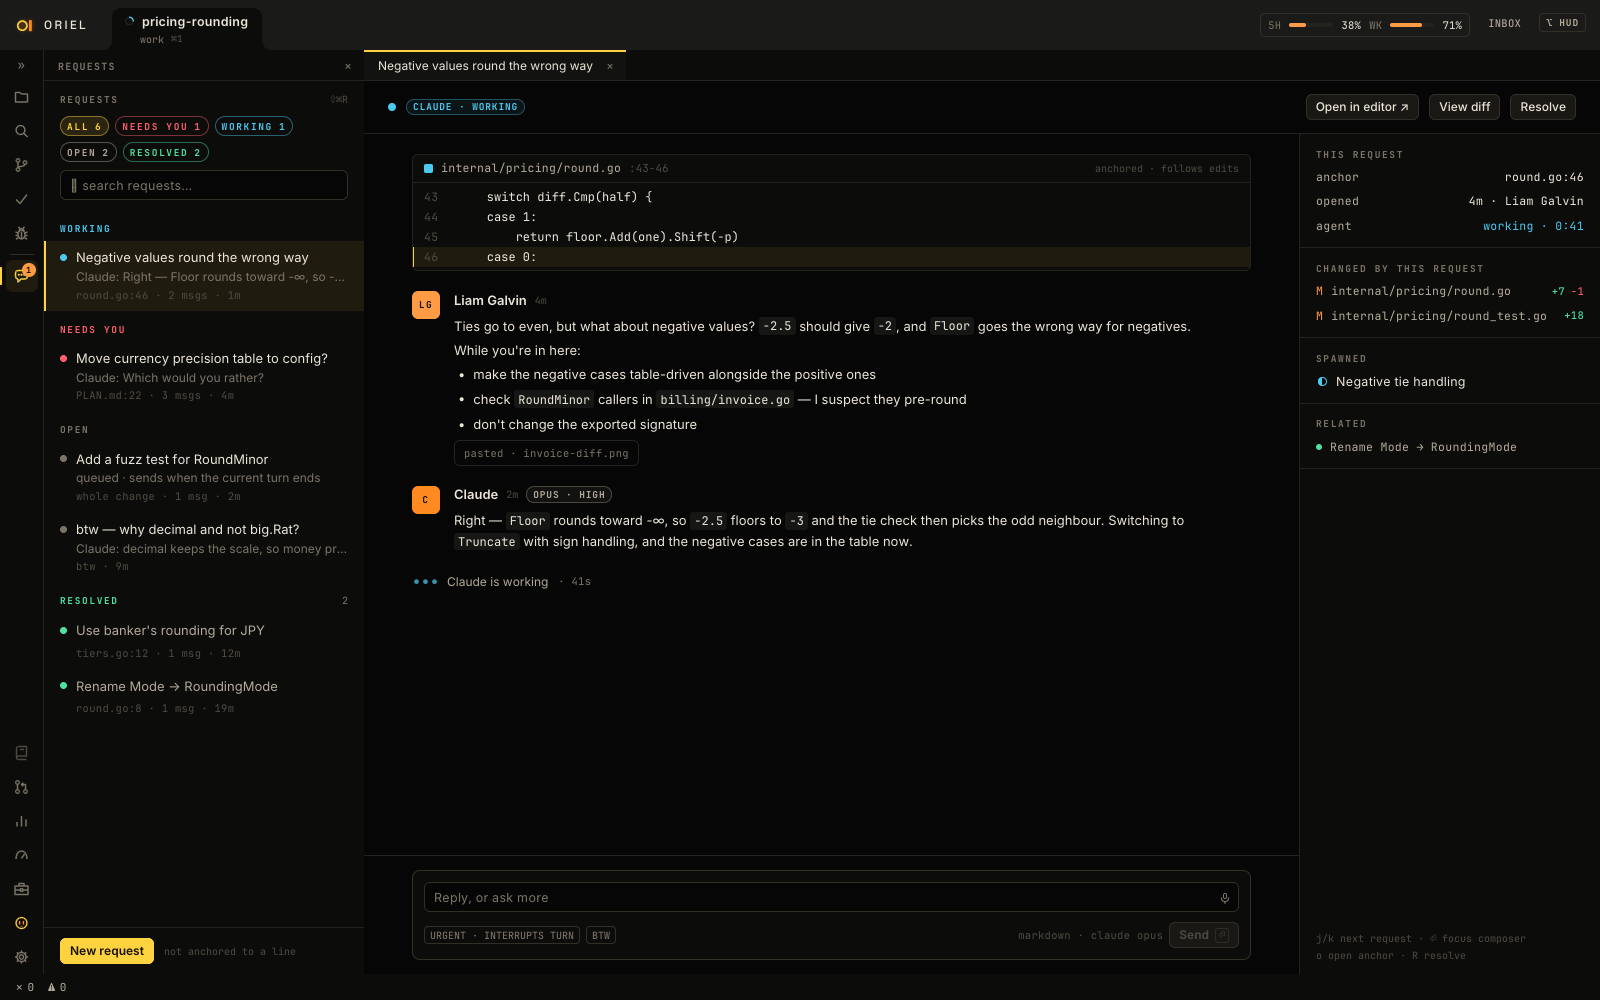
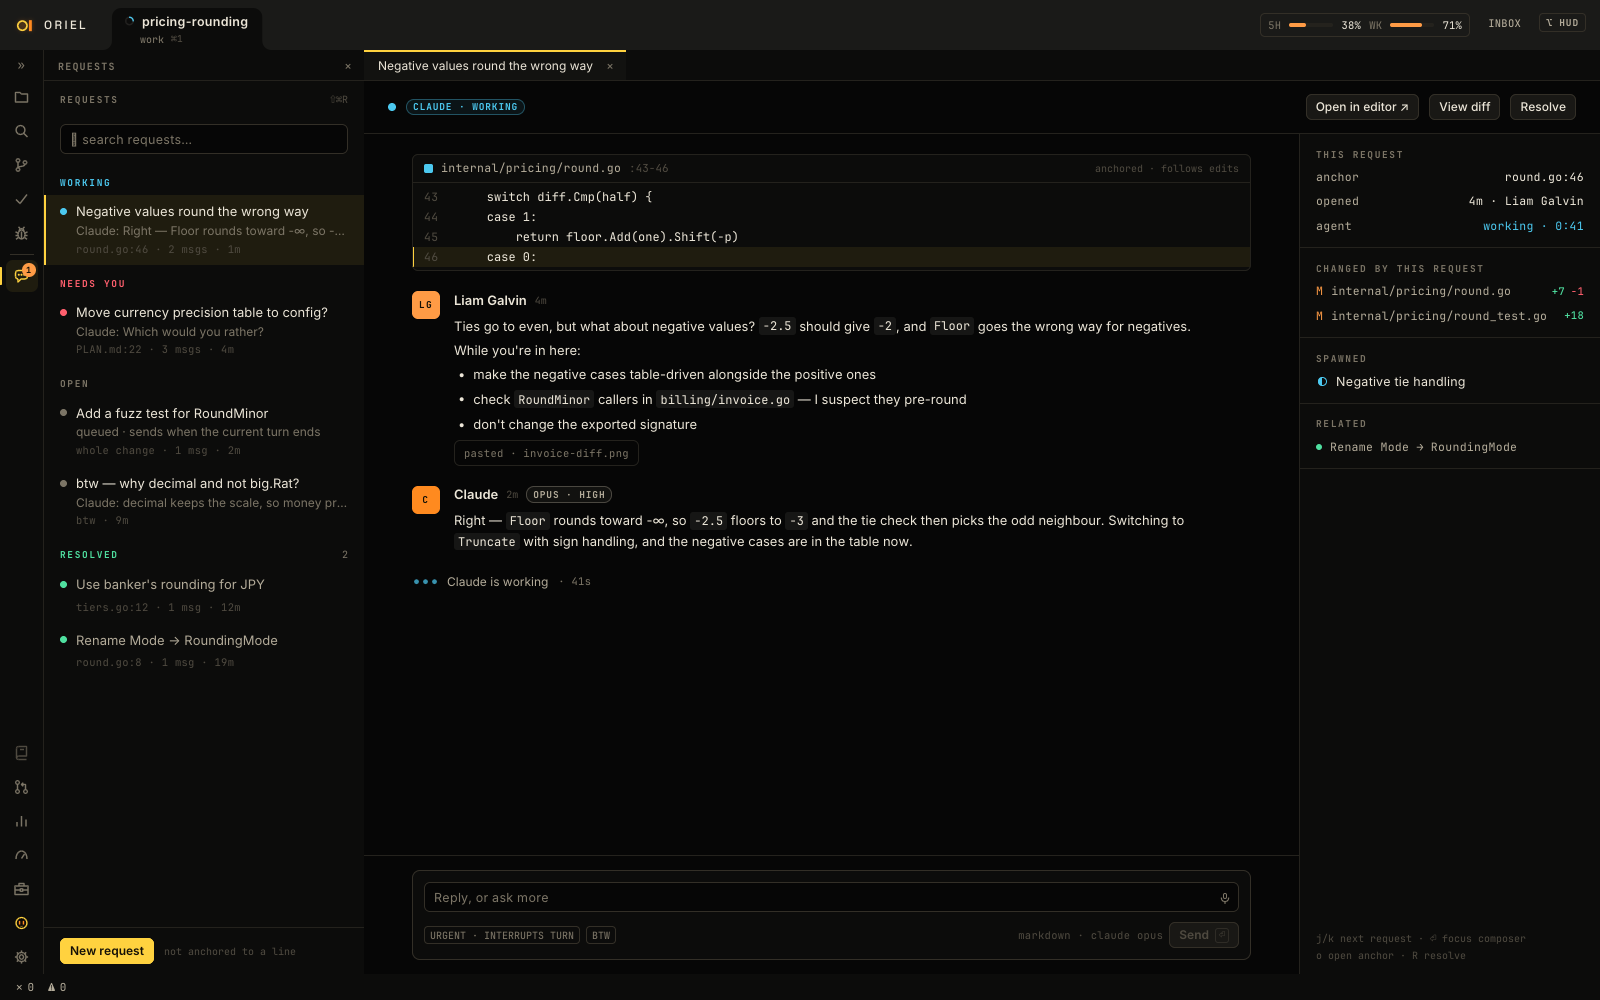
feat(requests): no filter chips over the list; its groups and search are enough

Changed region(s): [[0.0312, 0.093, 0.2188, 0.713]]

diff --git a/app/agentui/requestsview.go b/app/agentui/requestsview.go
@@ -66,7 +66,6 @@ func (x *Requests) listView(c *ui.Ctx, vc uireg.ViewCtx) {
 				c.Text("keys", k, kit.MonoFont(10, th.C(theme.FgGhost)))
 			}
 		})
-		x.filters(c, se, st, vc.Width)
 		c.Box("search", ui.Style{W: ui.Flex(1), Pad: ui.Insets{L: 16, R: 16, T: 8, B: 10}}, func(c *ui.Ctx) {
 			widget.Input(c, "q", &st.query, widget.InputOpts{Label: "Search requests", Placeholder: "⌕ search requests…", Help: "agent/requests#search"})
 		})
@@ -119,59 +118,6 @@ func (x *Requests) listView(c *ui.Ctx, vc uireg.ViewCtx) {
 			}
 			c.Text("note", note, kit.MonoFont(10, th.C(theme.FgGhost)))
 		})
-	})
-}
-
-// filters are the list's chips: All and each group, with counts; one is on.
-func (x *Requests) filters(c *ui.Ctx, se core.SessionState, st *requestsState, width float32) {
-	th := c.Theme()
-	counts := make([]int, len(filterGroups))
-	for _, t := range se.Threads {
-		counts[0]++
-		for i, g := range filterGroups {
-			if i > 0 && int(kit.GroupOf(t)) == g {
-				counts[i]++
-			}
-		}
-	}
-	labels := []string{"all", "needs you", "working", "open", "resolved"}
-	tones := []theme.TokenID{theme.Accent, theme.StatusNeedsYou, theme.StatusWorking, theme.FgMuted, theme.StatusQuiet}
-	if r, ok := c.Rect(c.Next("filters")); ok {
-		width = r.Dx()
-	}
-	font := kit.KickerFont(render.Color{}).Font
-	var rows [][]int
-	w := float32(0)
-	for i, l := range labels {
-		n := c.Shaper().Shape(strings.ToUpper(l), font).Advance + c.Shaper().Shape(fmt.Sprint(counts[i]), font).Advance + 22
-		if len(rows) == 0 || w+n > max(width-32, 160) {
-			rows = append(rows, nil)
-			w = 0
-		}
-		rows[len(rows)-1] = append(rows[len(rows)-1], i)
-		w += n + 6
-	}
-	c.Column("filters", ui.Style{W: ui.Flex(1), Pad: ui.PadXY(16, 0), Gap: 6}, func(c *ui.Ctx) {
-		for r, row := range rows {
-			c.Row(r, ui.Style{Gap: 6}, func(c *ui.Ctx) {
-				for _, i := range row {
-					on := st.filter == i
-					tone := th.C(tones[i])
-					fill := render.Color{}
-					if on {
-						fill = theme.WithAlpha(tone, .12)
-					}
-					if widget.Clickable(c, i, ui.Style{Dir: ui.Row, H: ui.Px(20), Pad: ui.PadXY(7, 0), Gap: 6, Cross: ui.Center, Radius: 10,
-						Stroke: theme.WithAlpha(tone, .45), Border: 1, Fill: fill, Selected: on, Focusable: true, Label: labels[i],
-						Help: "agent/requests#filters"}, func(c *ui.Ctx) {
-						c.Text("l", strings.ToUpper(labels[i]), kit.KickerFont(tone))
-						c.Text("n", fmt.Sprint(counts[i]), kit.KickerFont(tone))
-					}).Clicked {
-						st.filter = i
-					}
-				}
-			})
-		}
 	})
 }
 

diff --git a/app/agentui/requests.go b/app/agentui/requests.go
@@ -105,12 +105,11 @@ func (a attachment) label() string {
 // newKey is the draft of a request not yet sent.
 const newKey = ""
 
-// requestsState is one session's requests: what's selected, filtered and being written.
+// requestsState is one session's requests: what's selected, searched for and being written.
 type requestsState struct {
 	sel       core.ThreadID
 	writing   bool // the new request's composer is showing, not a thread
 	newAnchor *core.Anchor
-	filter    int
 	query     string
 	drafts    map[core.ThreadID]*draft
 	awaiting  string // a new request's body, sent, to select once its thread arrives
@@ -337,14 +336,11 @@ func (x *Requests) target(st *requestsState) core.ThreadID {
 	return st.sel
 }
 
-// visible are the session's requests in the list's order, filtered: by group, then the latest first.
+// visible are the session's requests in the list's order, as searched: by group, then the latest first.
 func (x *Requests) visible(se core.SessionState, st *requestsState) []core.Thread {
 	var out []core.Thread
 	q := strings.ToLower(strings.TrimSpace(st.query))
 	for _, t := range se.Threads {
-		if st.filter > 0 && int(kit.GroupOf(t)) != filterGroups[st.filter] {
-			continue
-		}
 		if q != "" && !strings.Contains(strings.ToLower(t.Heading()), q) && !slices.ContainsFunc(t.Comments, func(c core.Comment) bool {
 			return strings.Contains(strings.ToLower(c.Body), q)
 		}) {
@@ -357,9 +353,6 @@ func (x *Requests) visible(se core.SessionState, st *requestsState) []core.Threa
 	})
 	return out
 }
-
-// filterGroups are the filter chips' groups, after All.
-var filterGroups = []int{-1, int(kit.GroupNeedsYou), int(kit.GroupWorking), int(kit.GroupOpen), int(kit.GroupResolved)}
 
 // selection is the selected thread, following a new request to its thread once it arrives, and defaulting to the
 // first in the list.

diff --git a/app/agentui/requests_snapshot_test.go b/app/agentui/requests_snapshot_test.go
@@ -12,7 +12,7 @@ import (
 
 func requestsScene(t *testing.T) *apptest.Scene { return apptest.RequestsScene(t) }
 
-// The Requests list grouped Working / Needs you / Open / Resolved with its filters, and the
+// The Requests list grouped Working / Needs you / Open / Resolved, with its search, and the
 // request in front: its anchored code, your prompt as markdown with a pasted image, Claude's reply,
 // the composer, and what the request changed and spawned.
 func TestRequestsSnapshot(t *testing.T) {
@@ -76,5 +76,21 @@ func TestAQuestionBetweenTheLinesSnapshot(t *testing.T) {
 	s.Golden("question-in-editor")
 	if n := strings.Count(s.FullText(), "Away from zero"); n != 1 {
 		t.Errorf("the question is drawn %d times, want once, in its thread", n)
+	}
+}
+
+// The list has no filter chips: a session has too few requests to need them; its groups and search are enough.
+func TestRequestsHaveNoFilterChips(t *testing.T) {
+	s := requestsScene(t)
+	s.Run("view.open", registry.Args{"id": kit.RequestsView, "place": "dock", "edge": "left", "size": 320})
+	s.Frame()
+	// "working" and "open" name other things here too (the agent's state); these name only the chips.
+	for _, chip := range []string{"all", "needs you", "resolved"} {
+		if n := s.Find(chip); n != nil {
+			t.Errorf("a %q filter chip is still there", chip)
+		}
+	}
+	if s.Find("Search requests") == nil {
+		t.Error("the search field went with them")
 	}
 }

diff --git a/app/shell/help/pages/agent/requests.md b/app/shell/help/pages/agent/requests.md
@@ -16,10 +16,6 @@ Every request of the session in front, grouped by what it waits on: **Working** 
 agent answered), **Open** (queued behind the turn, or a btw), **Resolved**. `j` and `k` move, `⏎` writes to the selected
 one, `o` opens its anchor in the editor and `R` resolves it.
 
-## Filters
-
-All, or one group, with how many each holds.
-
 ## Search
 
 Narrows the list to requests whose title or comments hold the words.
